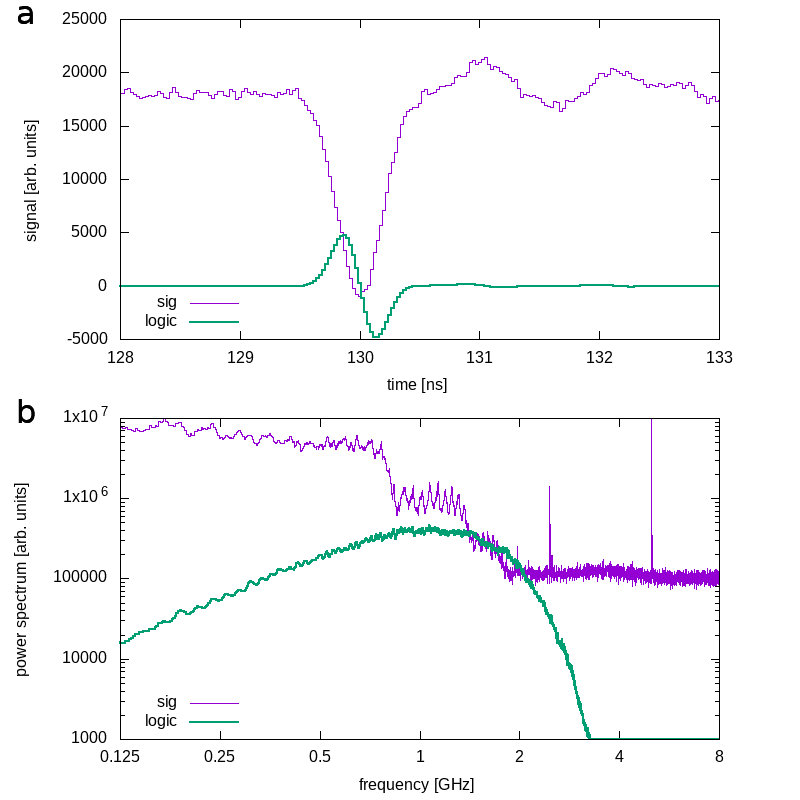
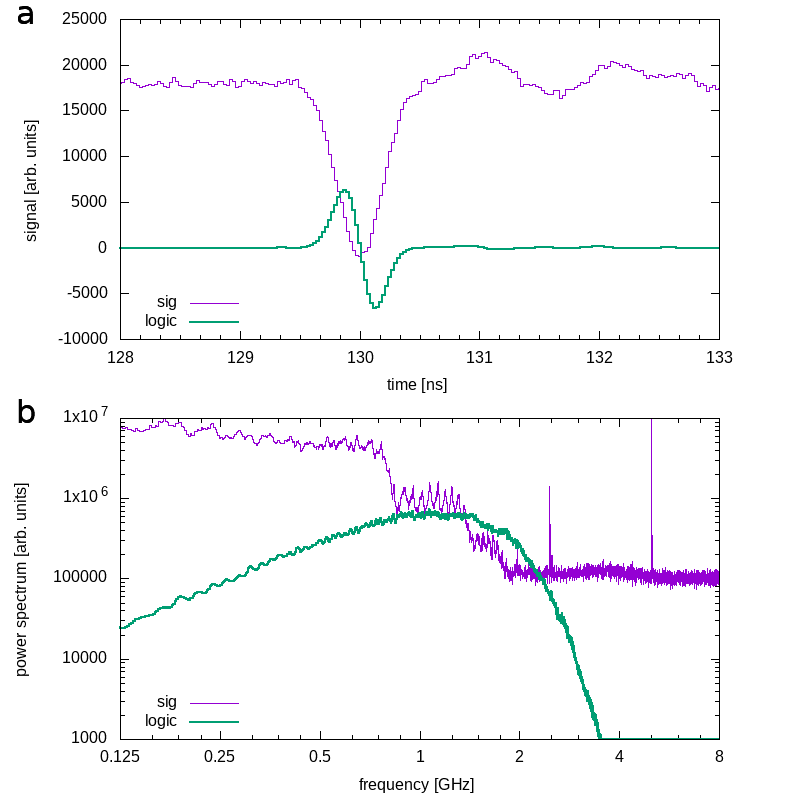
incremental

diff --git a/src/load_zerofit.py b/src/load_zerofit.py
@@ -67,9 +67,9 @@ def zeroFitRoot(lt,d,thresh=1.):
 
         x0 = np.mean(x)
         theta = np.linalg.pinv( mypoly(np.array(x).astype(float),order=order) ).dot(np.array(y).astype(float))
-        for j in range(2):
+        for j in range(3):
             X0 = np.array([np.power(x0,int(i)) for i in range(order+1)])
-            x0 -= theta.dot(X0)/theta.dot([i*X0[(i+1)%(order+1)] for i in range(order+1)])
+            x0 -= theta.dot(X0)/theta.dot([i*X0[(i+1)%(order+1)] for i in range(order+1)]) # this seems like maybe it should be wrong
         tofs += [x0]
         x = []
         y = []

diff --git a/src/loadbinary.py b/src/loadbinary.py
@@ -140,7 +140,7 @@ def main():
 
     data = np.zeros(nvals,dtype=np.int16)
     FREQ = np.fft.fftfreq(data.shape[0],tstep_ns) ## in nanoseconds #1./40.) # 1/sampling rate in GHz
-    W = getWeinerFilter(data,FREQ,cut = 3.0,noise = 0.1)
+    W = getWeinerFilter(data,FREQ,cut = 3.0,noise = 0.0001)
     W_lowpass = getWeinerFilter(data,FREQ,cut = 1.0,noise = 0.0001)
     AC = getacFilter(data,FREQ,cut = 0.05)
     w_ac_filter = np.roll(np.fft.ifft(W*AC).real,nroll)
